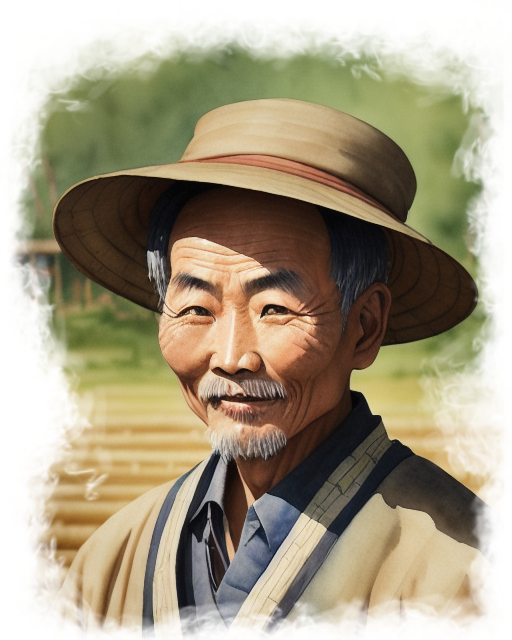
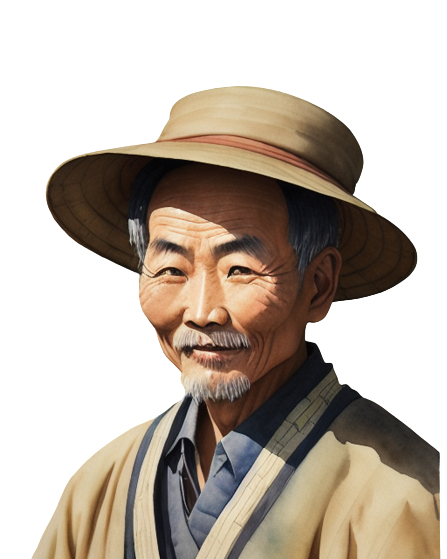
Add remaining illustrations to Maybe

diff --git a/main.tex b/main.tex
@@ -646,8 +646,9 @@
 
 \newpage
 
-\includegraphics[width=12cm,height=20cm]{example-image-a}
-
+\backgroundsetup{scale = 1, angle = 0, opacity = 1, contents = {\includegraphics[width = \paperwidth] {images/farm-lao-alone}}}
+\BgThispage
+\hfill
 \newpage
 
 \PlainPoemTitle
@@ -821,7 +822,6 @@
 
 \newpage
 
-%\newpage
 
 \backgroundsetup{scale = 1, angle = 0, opacity = 1, contents = {\includegraphics[width = \paperwidth, height = \paperheight] {images/son-broken-leg-end}}}
 \BgThispage
@@ -867,11 +867,49 @@
 помолчал, и сказал \say{может быть\ldots}
 \end{verse}
 
-\hspace{3cm}\includegraphics[width=6cm]{images/lao-wang}
+\hspace{3cm}\vspace{2cm}\includegraphics[width=6cm]{images/yin-yang.jpg}
 
+%\hfill
+
+\newpage
+\begin{figure}[h]
+	\begin{subfigure}{.3\textwidth}
+		\centering
+		\includegraphics[width=.8\linewidth]{images/lao-wang.png}
+		\caption{Лао}
+	\end{subfigure}%
+	\begin{subfigure}{.3\textwidth}
+		\centering
+		\includegraphics[width=.8\linewidth]{images/lao-wife.png}
+		\caption{Жена Лао}
+	\end{subfigure}%
+\begin{subfigure}{.3\textwidth}
+	\centering
+	\includegraphics[width=.8\linewidth]{images/lao-elder-son.png}
+	\caption{Старший сын}
+\end{subfigure}
+
+	\begin{subfigure}{\textwidth}
+	\vspace{2cm}
+		\centering
+		\includegraphics[width=.7\linewidth]{images/lao-kids.png}
+		\caption{Младшие дети}
+	\end{subfigure}
+	\caption{Лао Вэнь и его семья}
+\end{figure}
+
+\newpage
+
+%\begin{figure}[h]
+%	\centering
+%	\includegraphics[width=\linewidth]{images/hubei-village.jpg}
+%	\caption{Село в провинции Хубэй, где живет Лао}
+%\end{figure}
+
+\backgroundsetup{scale = 1, angle = 0, opacity = 0.9, contents = {\includegraphics[width = \paperwidth, height = \paperheight] {images/hubei-village.jpg}}}
+\BgThispage
 \hfill
-
-%\newpage
+\newpage
 
 
 
